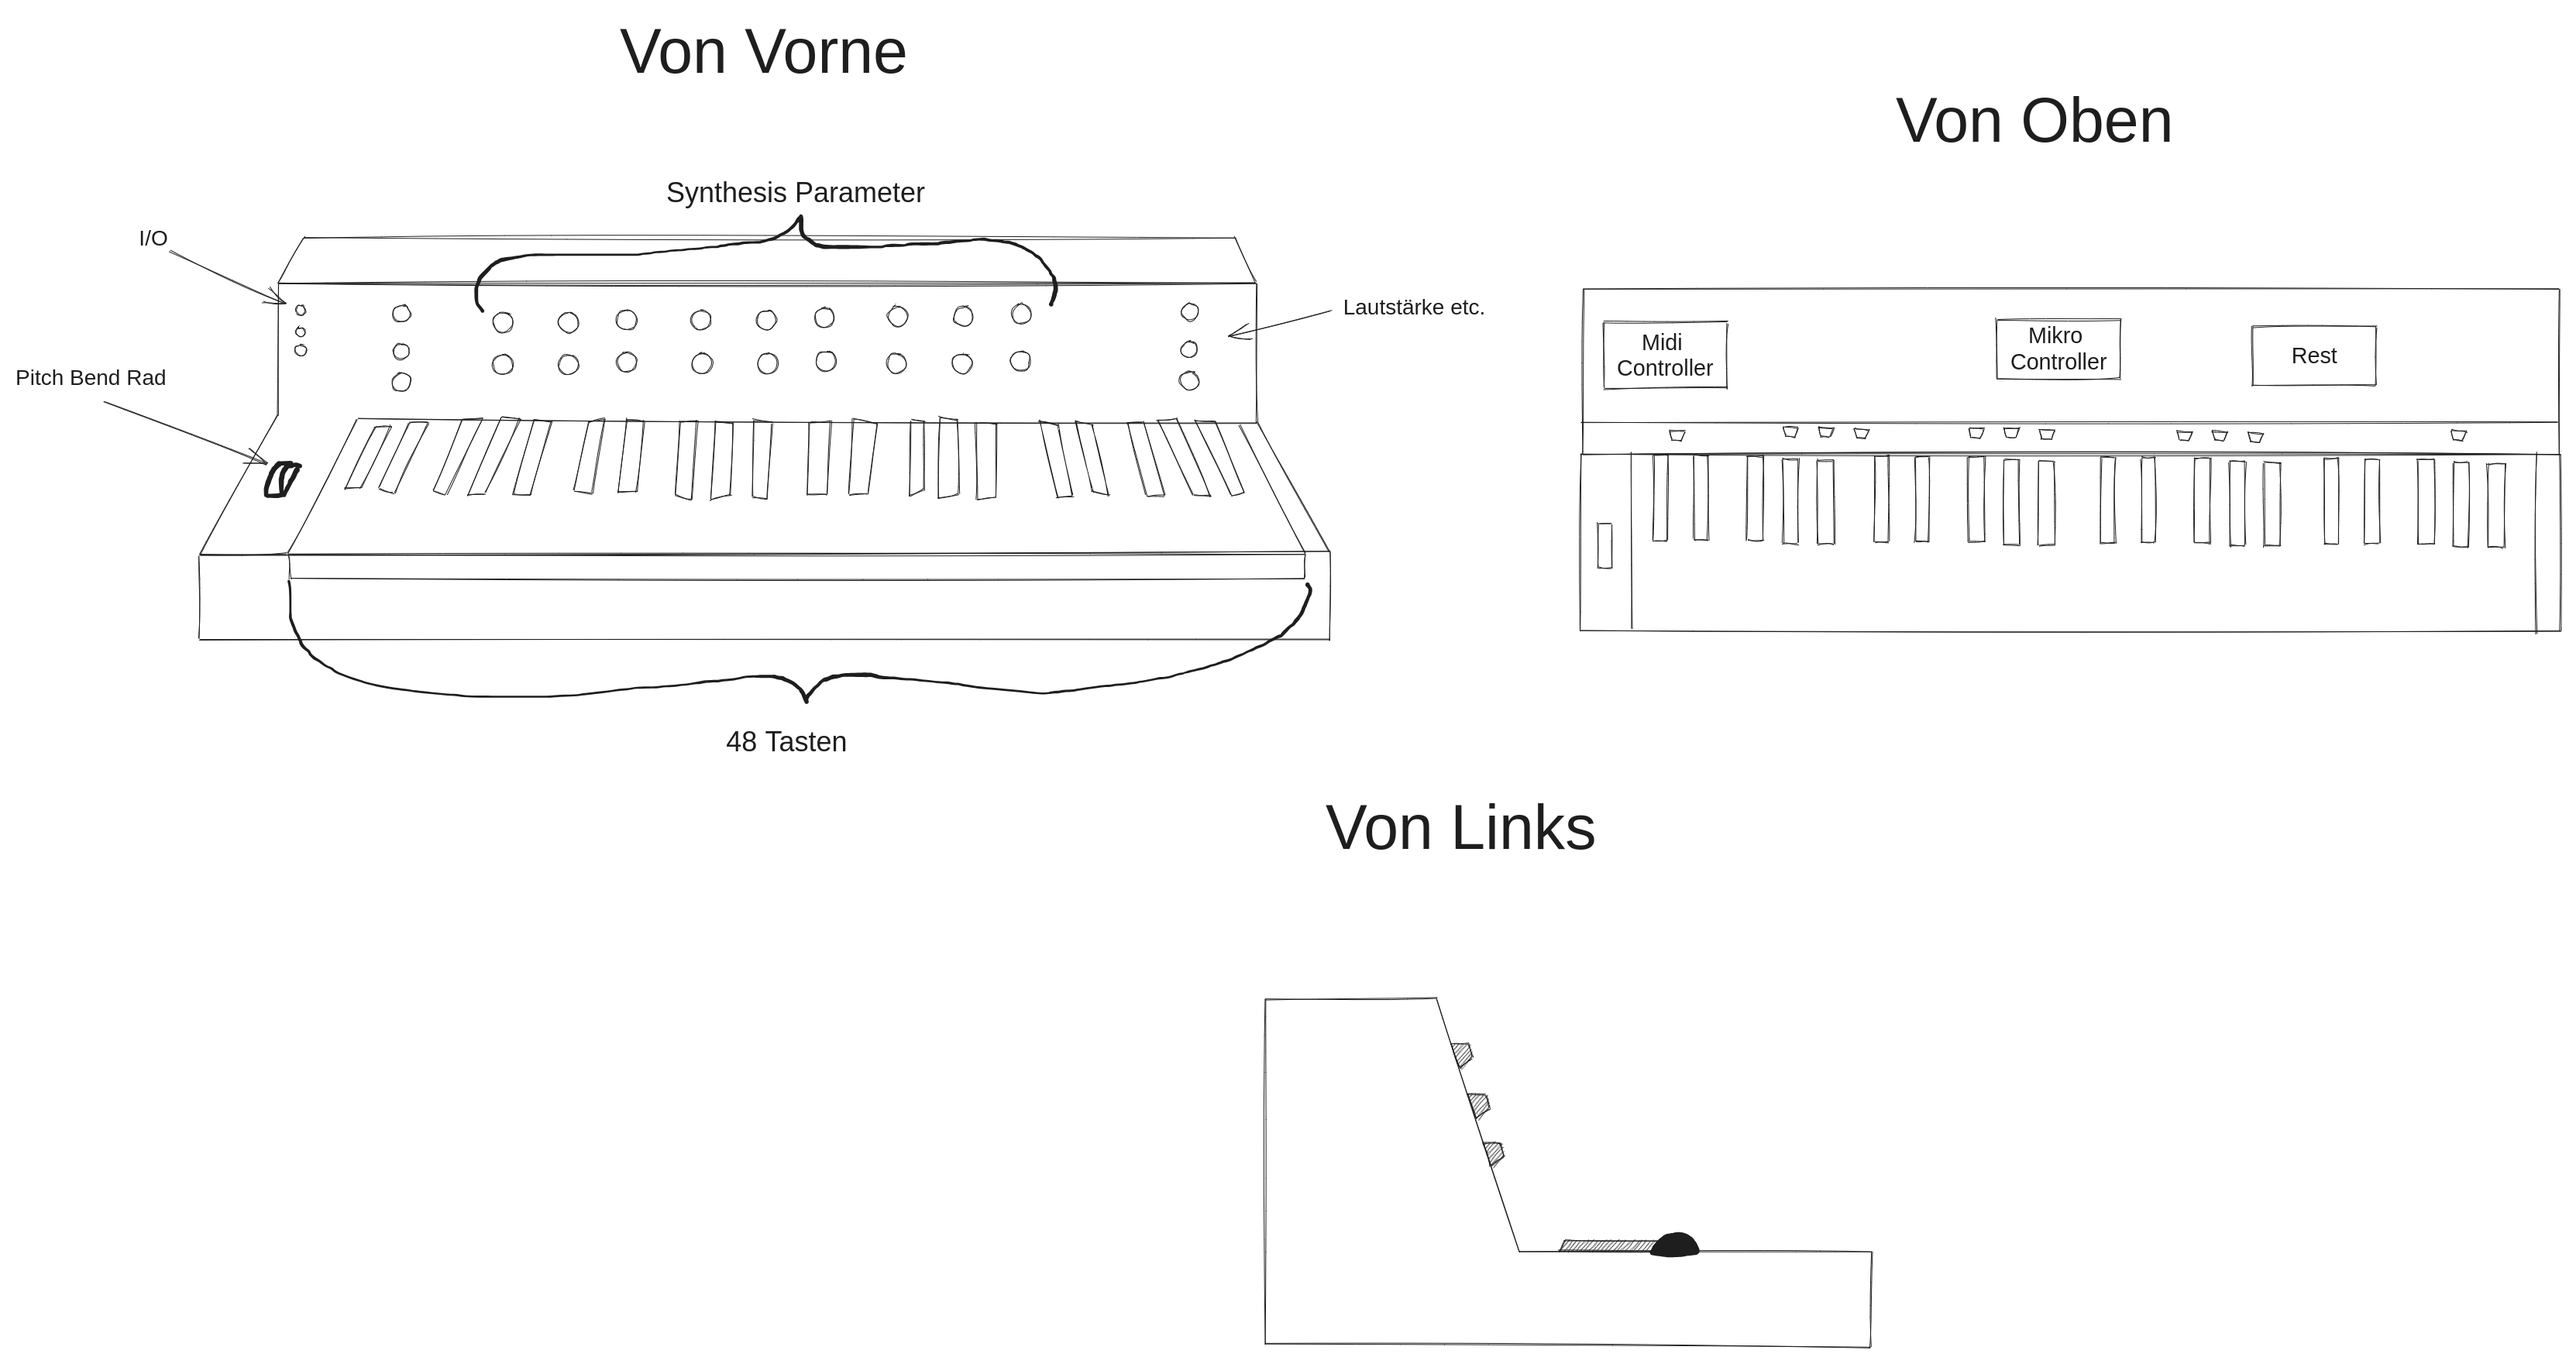
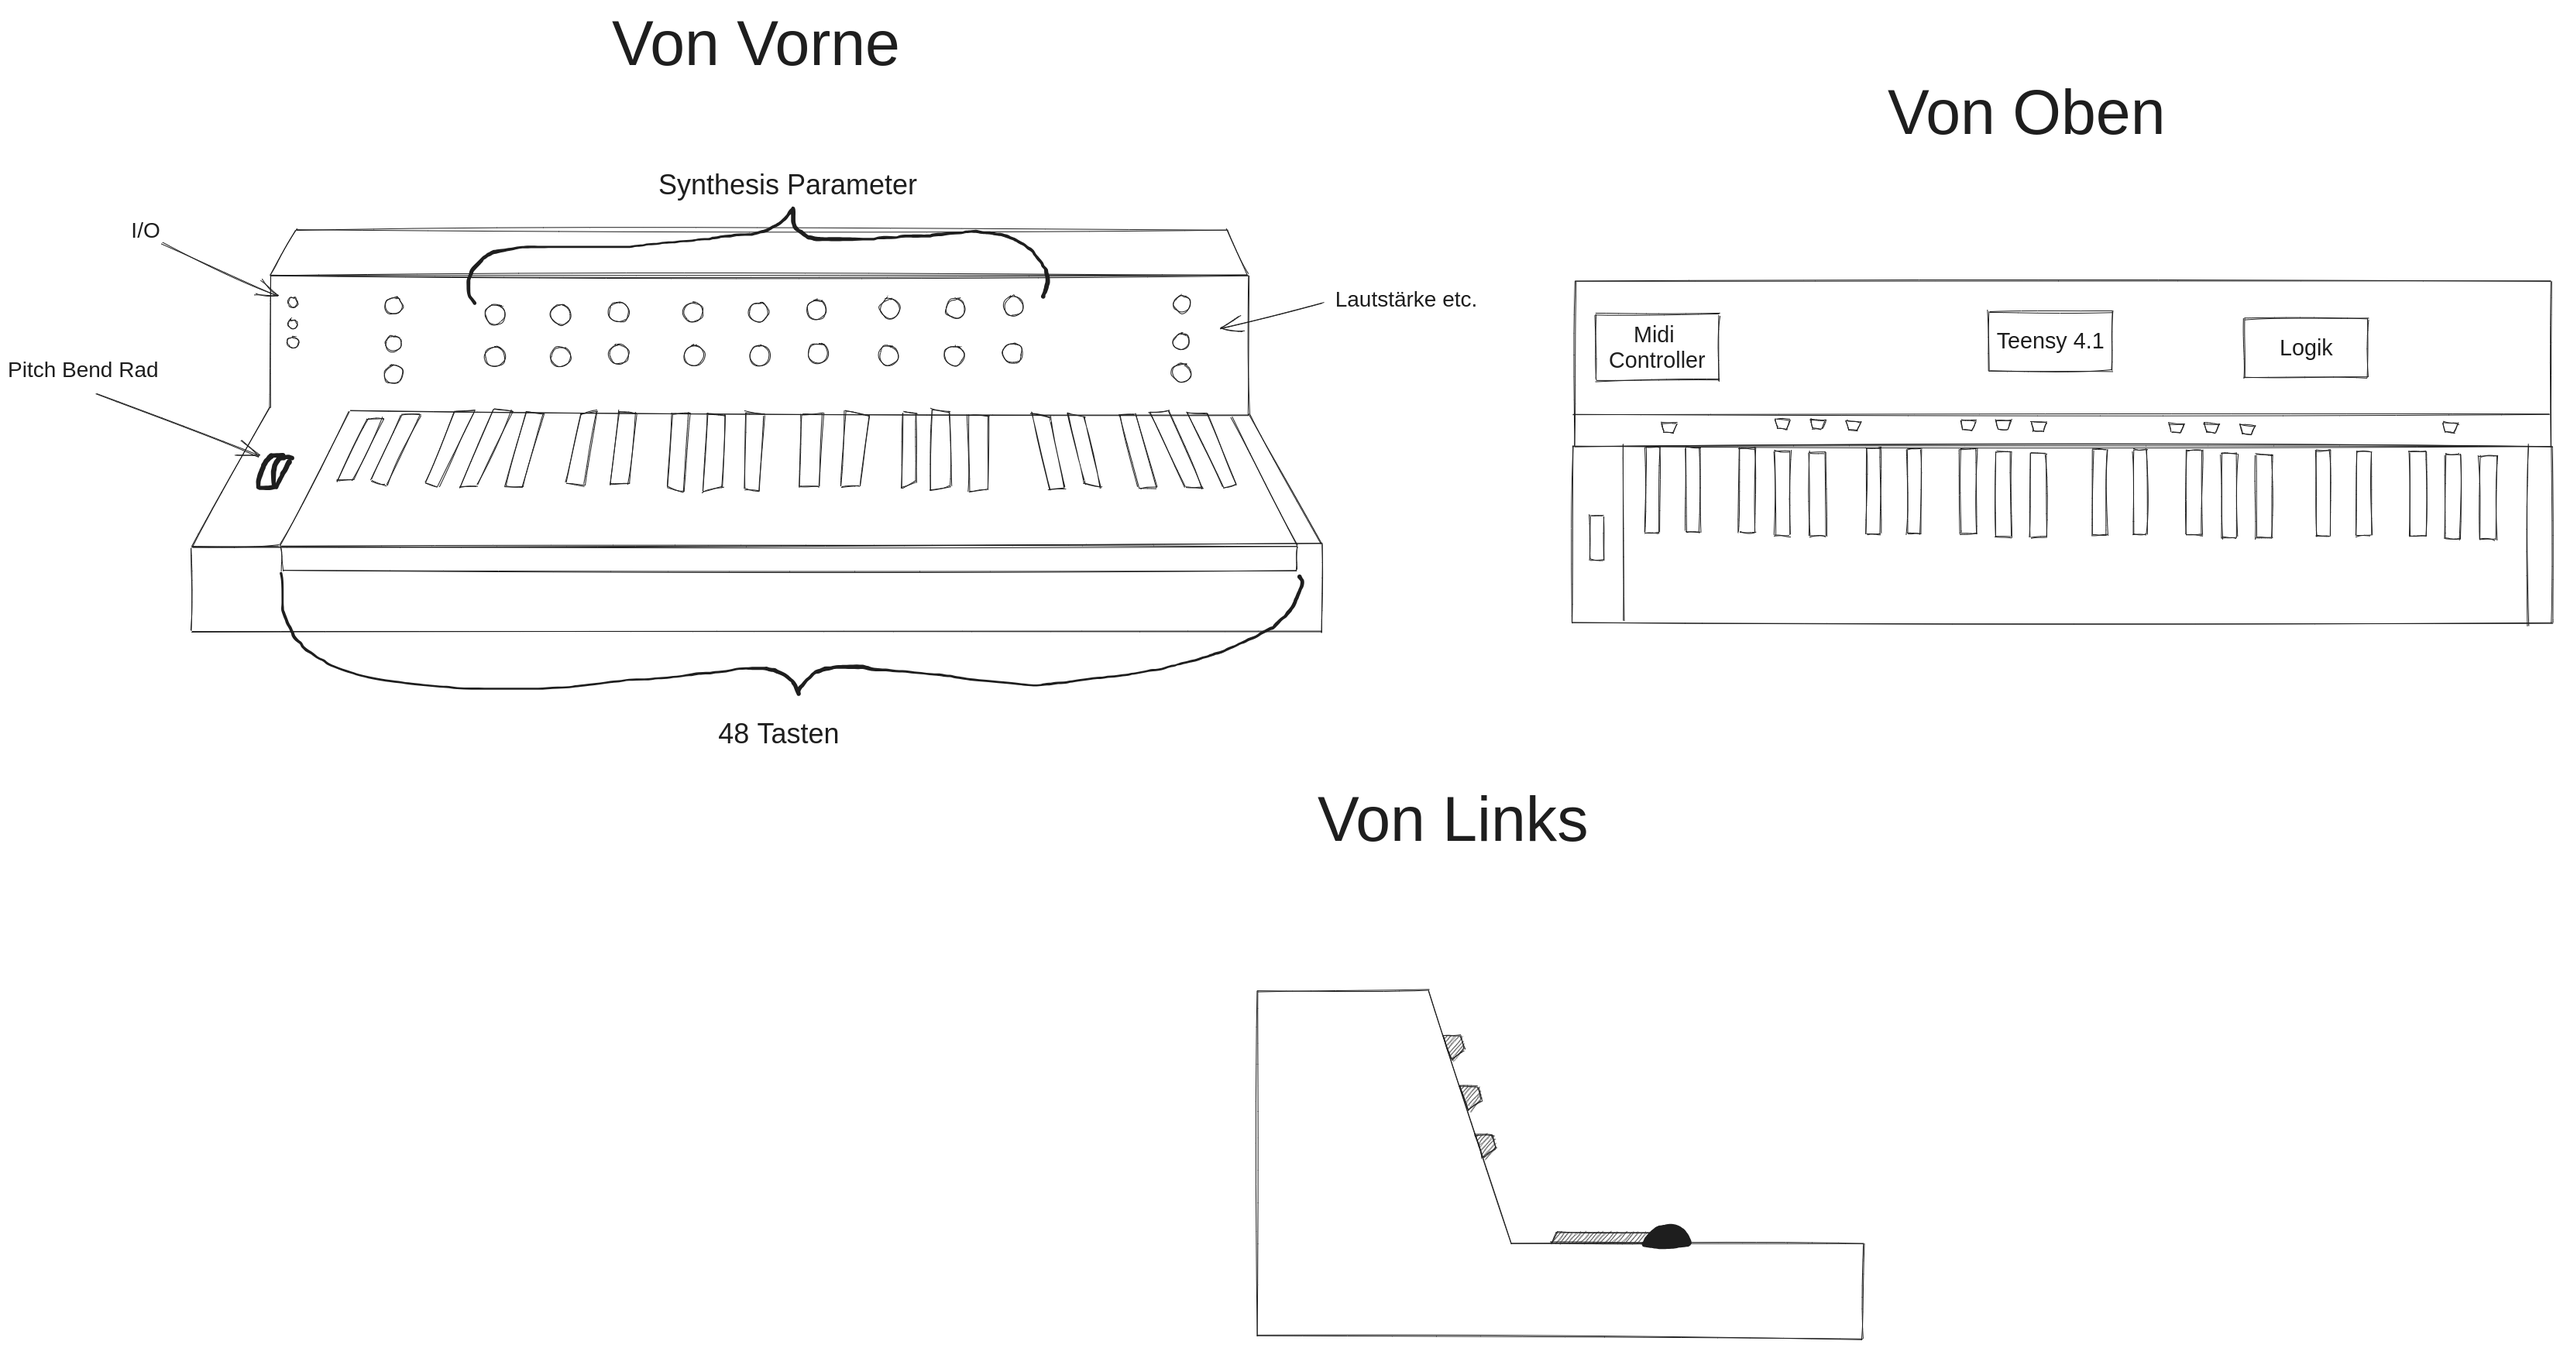
added libraries

diff --git a/Links.md b/Links.md
@@ -3,3 +3,8 @@ https://www.reddit.com/r/synthesizers/comments/v5g9xr/heres_a_diy_polyphonic_syn
 https://www.youtube.com/watch?v=Exk_K2VwGu0
 
 Preis: $110
+
+Libraries die verwendet werden (Docs werden lokal generiert):
+ - [Teensy Audio Library](https://www.pjrc.com/teensy/td_libs_Audio.html)
+ - [Faust (TAL erweiterung)]([faust2[...] Tools - Faust Documentation](https://faustdoc.grame.fr/manual/tools/#faust2teensy))
+ 
